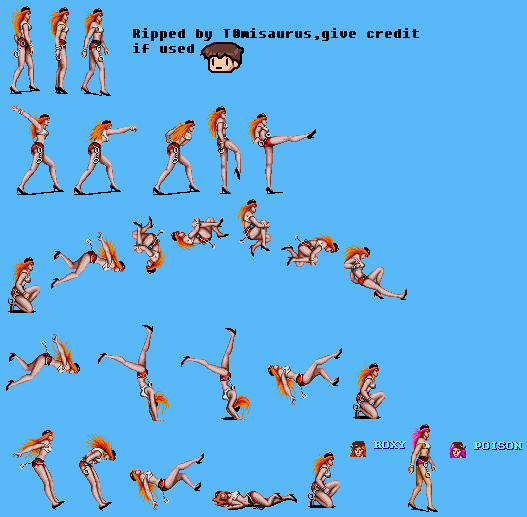
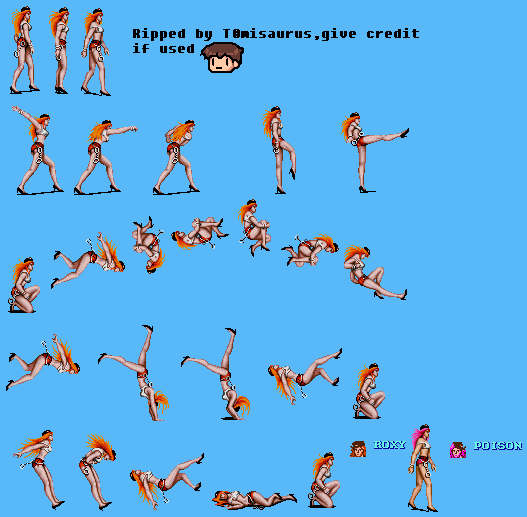
Se le agrega comportamiento de ataque al jugador mas cercano a los enemigos y sus respectivos sprites

Changed region(s): [[0.3947, 0.1857, 0.6072, 0.3714], [0.6376, 0.2166, 0.7894, 0.3714]]

diff --git a/servidor/NivelServidor.cpp b/servidor/NivelServidor.cpp
@@ -20,6 +20,7 @@
 #include "FabricaDeAnimacionesServidor.h"
 #include "../modelo/IndiceSprite.h"
 #include "../modelo/Energia.h"
+#include "../estados/ia/buscarJugadores.h"
 
 void NivelServidor::generarMenuSeleccion(Mapa *mapa) {
     Locator::logger()->log(INFO, "Se genera el menu de seleccion.");
@@ -84,7 +85,7 @@ void NivelServidor::generarNivel(const string &nivel, Mapa *mapa) {
     generarElementos(nivel, mapa, posicionDeEscenario, CUCHILLO);
     generarElementos(nivel, mapa, posicionDeEscenario, TUBO);
     generarElementos(nivel, mapa, posicionDeEscenario, NEUMATICO);
-    generarEnemigo(nivel, mapa, posicionDeEscenario);
+    generarEnemigo(nivel, mapa, posicionDeEscenario, jugadores);
     generarTransicion(nivel, mapa, jugadores);
 }
 
@@ -145,7 +146,7 @@ int generarPosicionY(int frontera) {
     return dist(mt);
 }
 
-void NivelServidor::generarEnemigo(const string &nivel, Mapa *mapa, Posicion *posicionDeEscenario) {
+void NivelServidor::generarEnemigo(const string &nivel, Mapa *mapa, Posicion *posicionDeEscenario, Jugadores* jugadores) {
 
     Configuracion *config = Locator::configuracion();
     int cantidad = config->getIntValue("/niveles/" + nivel + "/escenario/enemigos/cantidad");
@@ -160,15 +161,16 @@ void NivelServidor::generarEnemigo(const string &nivel, Mapa *mapa, Posicion *po
         Entidad *enemigo = mapa->crearEntidad();
 
         auto *tipo = new Tipo(ENEMIGO);
-        auto *comportamiento = new Patrullar();
+        auto *comportamiento = new buscarJugadores(jugadores);
         auto *velocidadDeEnemigo = new Velocidad();
         auto *orientacionDeEnemigo = new Orientacion;
         auto *fisicaDeEnemigo = new FisicaDePersonaje();
-        EstadoDePersonajeServidor *estado = new Caminando();
-        auto *estadoDePersonaje = new EstadoDePersonaje(CAMINANDO);
+        EstadoDePersonajeServidor *estado = new Reposando();
+        auto *estadoDePersonaje = new EstadoDePersonaje(REPOSANDO);
         auto *posicionEnemigoRandom = new Posicion(generarPosicionX(anchoNivel), generarPosicionY(profundidadNivel), 0);
         auto *indiceSprite = new IndiceSprite;
-        auto *animacionServidor = FabricaDeAnimacionesServidor::getAnimacion(POISSON, "caminando");
+        auto *animacionServidor = FabricaDeAnimacionesServidor::getAnimacion(POISSON, "reposando");
+        auto *energia = new Energia(100,1);
 
         enemigo->agregarEstado("tipo", tipo);
         enemigo->agregarEstado("personaje", personaje);
@@ -178,6 +180,7 @@ void NivelServidor::generarEnemigo(const string &nivel, Mapa *mapa, Posicion *po
         enemigo->agregarEstado("orientacion", orientacionDeEnemigo);
         enemigo->agregarEstado("estado de personaje", estadoDePersonaje);
         enemigo->agregarEstado("posicion de escenario", posicionDeEscenario);
+        enemigo->agregarEstado("energia", energia);
         enemigo->agregarComportamiento("estado", estado);
         enemigo->agregarComportamiento("fisica", fisicaDeEnemigo);
         enemigo->agregarComportamiento("comportamiento", comportamiento);

diff --git a/estados/ia/buscarJugadores.cpp b/estados/ia/buscarJugadores.cpp
@@ -1,0 +1,34 @@
+//
+// Created by franco on 29/10/19.
+//
+
+#include "buscarJugadores.h"
+
+buscarJugadores::buscarJugadores(Jugadores *jugadores) {
+    this -> jugadores = jugadores;
+}
+
+void buscarJugadores::actualizar(Entidad *entidad) {
+
+    auto *estado = entidad->getComportamiento<EstadoDePersonajeServidor>("estado");
+    estado->actualizar(entidad);
+
+    auto *posicion = entidad->getEstado<Posicion>("posicion");
+    auto *posicionMasCercana = jugadores->posicionMasCercana(posicion);
+
+    Posicion restaPosicion = posicion->menos(posicionMasCercana);
+    float mod = restaPosicion.modulo();
+    if ( mod <= 700 ) {
+        if( mod >= 200 ) {
+            estado->caminar(entidad, restaPosicion.x <= 0, restaPosicion.x > 0, restaPosicion.y < 0,
+                            restaPosicion.y > 0);
+        }else{
+            //TODO atacar
+            if( restaPosicion.y <= 10 && restaPosicion.y >= -10){
+                estado->golpear(entidad);
+            }
+        }
+    }else{
+        estado->reposar(entidad);
+    }
+}

diff --git a/modelo/Jugadores.cpp b/modelo/Jugadores.cpp
@@ -61,6 +61,23 @@ void Jugadores::arrastrarInactivos(int scrollIzquierdo, int scrollDerecho) {
     }
 }
 
+Posicion *Jugadores::posicionMasCercana(Posicion *posicion) {
+    auto* posicionMasCercana = new Posicion(3000,1000,100);
+    for(auto tuple: jugadores){
+        if (tuple.second->getEstado<Actividad>("actividad")->activo){
+            auto* posicionJugador = tuple.second->getEstado<Posicion>("posicion");
+            int distJugadorYenemigo = posicionJugador->distanciaEntrePuntos(posicion);
+            int distMasCercanaActual = posicionMasCercana->distanciaEntrePuntos(posicion);
+            if ( distJugadorYenemigo < distMasCercanaActual){
+                posicionMasCercana->x = posicionJugador->x;
+                posicionMasCercana->y = posicionJugador->y;
+                posicionMasCercana->z = posicionJugador->z;
+            }
+        }
+    }
+    return posicionMasCercana;
+}
+
 
 
 

diff --git a/graficos/animaciones/FabricaDeAnimacionesDePoison.cpp b/graficos/animaciones/FabricaDeAnimacionesDePoison.cpp
@@ -29,12 +29,15 @@ AnimacionCliente *FabricaDeAnimacionesDePoison::saltando() {
 }
 
 AnimacionCliente *FabricaDeAnimacionesDePoison::reposando() {
-    return nullptr;
+    vector<SDL_Rect> posiciones = {
+            {79,  8, 35, 89}
+    };
+    return new AnimacionCliente(posiciones, 4.5);
 }
 
 AnimacionCliente *FabricaDeAnimacionesDePoison::agachado() {
     vector<SDL_Rect> posiciones = {
-            {79,  8, 35, 89},
+            {6,  257, 40, 67},
     };
 
     //vector<float> duraciones = {1};
@@ -43,7 +46,11 @@ AnimacionCliente *FabricaDeAnimacionesDePoison::agachado() {
 }
 
 AnimacionCliente *FabricaDeAnimacionesDePoison::golpear() {
-    return nullptr;
+    vector<SDL_Rect> posiciones = {
+            {236, 105, 90, 92},
+            {300, 105, 120, 92},
+    };
+    return new AnimacionCliente(posiciones, 4.5);
 }
 
 AnimacionCliente *FabricaDeAnimacionesDePoison::saltandoAdelante() {

diff --git a/modelo/Posicion.cpp b/modelo/Posicion.cpp
@@ -2,6 +2,7 @@
 // Created by sebas on 30/8/19.
 //
 
+#include <cmath>
 #include "Posicion.h"
 
 Posicion::Posicion(int x, int y, int z): x(x), y(y), z(z) {}
@@ -49,6 +50,22 @@ void Posicion::deserializar(istream &stream) {
 
 bool Posicion::operator==(const Posicion &otraPosicion) {
     return (x == otraPosicion.x) && (y == otraPosicion.y) && (z == otraPosicion.z);
+}
+
+bool Posicion::operator<(const Posicion &otraPosicion) {
+    return (x < otraPosicion.x && y < otraPosicion.y && z < otraPosicion.z );
+}
+
+int Posicion::distanciaEntrePuntos(Posicion *otraPosicion) {
+    return sqrt((x - otraPosicion->x)*(x - otraPosicion->x ) + (y - otraPosicion->y)*(y - otraPosicion->y));
+}
+
+float Posicion::modulo() {
+    return sqrt((x*x) + (y*y));
+}
+
+Posicion Posicion::menos(Posicion *otraPosicion) {
+    return Posicion(x - otraPosicion->x, y - otraPosicion->y, z - otraPosicion->z);
 }
 
 

diff --git a/cliente/NivelCliente.cpp b/cliente/NivelCliente.cpp
@@ -181,11 +181,13 @@ void NivelCliente::generarEnemigo(Mapa *mapa, Entidad *enemigo) {
     auto *spriteEnemigo = Locator::fabricaDeSprites()->getSpriteBySrc("assets/personajes/poison.png");
     auto *fabricaDeEnemigo = new FabricaDeAnimacionesDePoison();
     auto *graficoDeEnemigo = new Grafico();
-    auto *animacion = fabricaDeEnemigo->caminando();
+    auto *animacion = fabricaDeEnemigo->reposando();
+    auto *animador = new Animador();
     enemigo->agregarEstado("sprite", spriteEnemigo);
     enemigo->agregarEstado("fabrica de animaciones", fabricaDeEnemigo);
     enemigo->agregarEstado("animacion", animacion);
     enemigo->agregarComportamiento("grafico", graficoDeEnemigo);
+    enemigo->agregarComportamiento("animador", animador);
 
 }
 

diff --git a/estados/ia/buscarJugadores.h b/estados/ia/buscarJugadores.h
@@ -1,0 +1,25 @@
+//
+// Created by franco on 29/10/19.
+//
+
+#ifndef FINAL_FIGHT_BUSCARJUGADORES_H
+#define FINAL_FIGHT_BUSCARJUGADORES_H
+
+
+#include "../../modelo/Entidad.h"
+#include "../../modelo/Jugadores.h"
+#include "../EstadoDePersonajeServidor.h"
+
+class buscarJugadores : public Comportamiento {
+
+private:
+    Jugadores *jugadores;
+
+public:
+    explicit buscarJugadores(Jugadores* jugadores);
+
+    void actualizar(Entidad *) override;
+};
+
+
+#endif //FINAL_FIGHT_BUSCARJUGADORES_H

diff --git a/servidor/NivelServidor.h b/servidor/NivelServidor.h
@@ -18,7 +18,7 @@ class NivelServidor {
 
 private:
     static void generarTransicion(const string &nivel,Mapa *mapa, Jugadores* posicionDeJugador);
-    static void generarEnemigo(const string &nivel, Mapa *mapa, Posicion *posicionDeEscenario);
+    static void generarEnemigo(const string &nivel, Mapa *mapa, Posicion *posicionDeEscenario, Jugadores* jugadores);
     static void generarElementos(const string &nivel, Mapa *mapa, Posicion *posicionDeEscenario, elementos ART);
 
 public:

diff --git a/modelo/Posicion.h b/modelo/Posicion.h
@@ -24,6 +24,10 @@ public:
     void setX(int x);
 
     bool operator==(const Posicion &otraPosicion);
+    bool operator<(const Posicion &otraPosicion);
+    int distanciaEntrePuntos(Posicion *otraPosicion);
+    float modulo();
+    Posicion menos(Posicion *);
 
     void serializar(ostream& stream) override;
     void deserializar(istream& stream) override;

diff --git a/modelo/Jugadores.h b/modelo/Jugadores.h
@@ -23,6 +23,8 @@ public:
 
     void bloquearMovientos(int scrollIzquierdo, int scrollDerecho);
     void arrastrarInactivos(int scrollIzquierdo, int scrollDerecho);
+
+    Posicion* posicionMasCercana(Posicion *posicion);
 };
 
 
